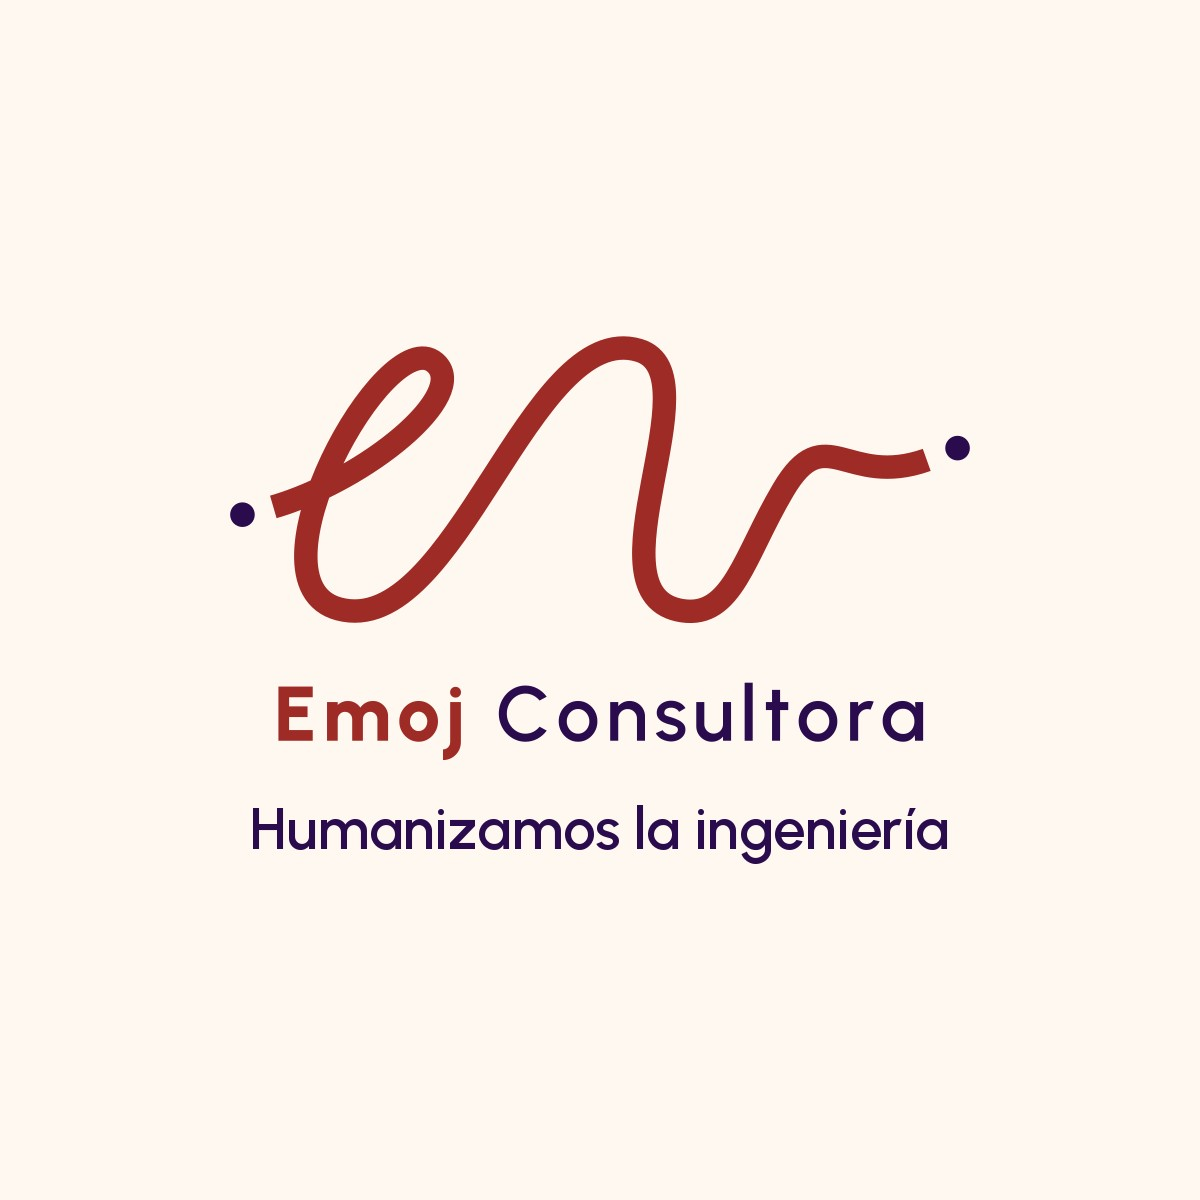
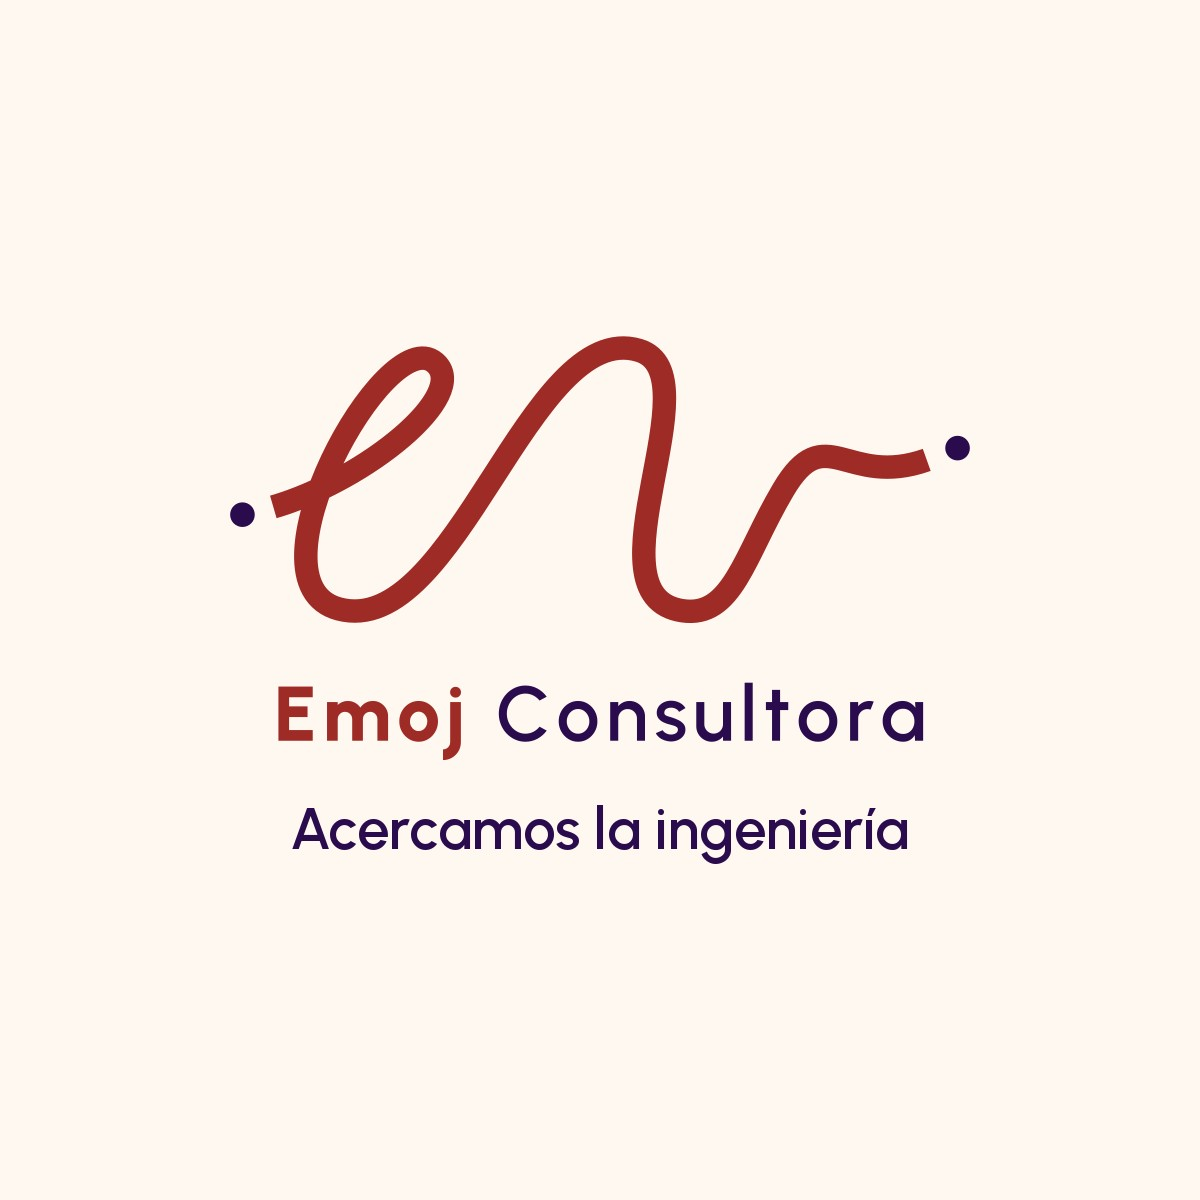
chore(brand): tagline is "Acercamos la ingeniería"

Changed region(s): [[0.185, 0.6783, 0.8017, 0.74]]

diff --git a/src/admin/Shell.tsx b/src/admin/Shell.tsx
@@ -34,6 +34,7 @@ import {
 } from "lucide-react";
 import { useEffect, useRef, useState, type ReactNode } from "react";
 import { activeNavItem, type AdminNavItem } from "../lib/admin/nav";
+import { TAGLINE as SITE_TAGLINE } from "../lib/site";
 import {
   effectiveTheme,
   storedTheme,
@@ -128,8 +129,8 @@ function NavList({
   );
 }
 
-/** Tagline under the lockup (the one in the official tagline files). */
-const TAGLINE = "acercamos la ingeniería";
+/** Tagline under the lockup, lowercase as in the official tagline files. */
+const TAGLINE = SITE_TAGLINE.toLowerCase();
 
 function Brand({ collapsed }: { collapsed: boolean }) {
   return (

diff --git a/src/lib/site.ts b/src/lib/site.ts
@@ -9,7 +9,7 @@ export const SITE_NAME = "EMOJ Consultora";
 export const LEGAL_NAME = "EMOJ Consultora SpA";
 /** Tax ID (RUT) of EMOJ Consultora SpA. */
 export const RUT = "76.956.190-0";
-export const TAGLINE = "Humanizamos la ingeniería";
+export const TAGLINE = "Acercamos la ingeniería";
 
 export const CONTACT = {
   email: "coordinacion@emoj.cl",

diff --git a/scripts/build-og-image.py b/scripts/build-og-image.py
@@ -54,7 +54,7 @@ with tempfile.TemporaryDirectory() as tmp:
     lockup = lockup.crop(lockup.getbbox())
 
 font = ImageFont.truetype(str(FONTS / "urbanist-latin-600-normal.woff"), 58)
-tagline = "Humanizamos la ingeniería"
+tagline = "Acercamos la ingeniería"
 draw_probe = ImageDraw.Draw(Image.new("RGB", (1, 1)))
 left, top, right, bottom = draw_probe.textbbox((0, 0), tagline, font=font)
 text_w, text_h = right - left, bottom - top

diff --git a/design/brand/oficial/README.md b/design/brand/oficial/README.md
@@ -7,14 +7,14 @@ source of truth: the site's marks are built from them, never redrawn.
 
 ## Versions
 
-| Files                          | What                                                            | Use                                                                                                                                                                                   |
-| ------------------------------ | --------------------------------------------------------------- | ------------------------------------------------------------------------------------------------------------------------------------------------------------------------------------- |
-| `isotipo-recorte*.svg`         | Isotype, fine stroke (10.19 on an 852 grid)                     | The main mark in the brand book. Large sizes.                                                                                                                                         |
-| `isotipo-bold.svg`             | Isotype, heavy stroke (20)                                      | Small sizes, where the fine stroke would thin out (header, favicon).                                                                                                                  |
-| `horizontal-*.svg`             | Isotype + "Emoj Consultora" side by side                        | Wide, short spaces.                                                                                                                                                                   |
-| `vertical-*.svg`               | Isotype over "Emoj Consultora"                                  | Main lockup. The site footer uses `vertical-recorte` (`src/components/LogoLockup.astro`).                                                                                             |
-| `vertical-tagline-*.svg`       | Vertical lockup with tagline                                    | **Outdated tagline**: these files say "acercamos la ingeniería"; the brand book and the site use "Humanizamos la ingeniería". Do not publish them until the designer re-exports them. |
-| `patron-1.svg`, `patron-2.svg` | The isotype repeated as a pattern (same tile, different offset) | Backgrounds. The web tile is `public/brand/patron.svg`.                                                                                                                               |
+| Files                          | What                                                            | Use                                                                                                             |
+| ------------------------------ | --------------------------------------------------------------- | --------------------------------------------------------------------------------------------------------------- |
+| `isotipo-recorte*.svg`         | Isotype, fine stroke (10.19 on an 852 grid)                     | The main mark in the brand book. Large sizes.                                                                   |
+| `isotipo-bold.svg`             | Isotype, heavy stroke (20)                                      | Small sizes, where the fine stroke would thin out (header, favicon).                                            |
+| `horizontal-*.svg`             | Isotype + "Emoj Consultora" side by side                        | Wide, short spaces.                                                                                             |
+| `vertical-*.svg`               | Isotype over "Emoj Consultora"                                  | Main lockup. The site footer uses `vertical-recorte` (`src/components/LogoLockup.astro`).                       |
+| `vertical-tagline-*.svg`       | Vertical lockup with tagline                                    | The official tagline, "acercamos la ingeniería". The site uses the same words (`TAGLINE` in `src/lib/site.ts`). |
+| `patron-1.svg`, `patron-2.svg` | The isotype repeated as a pattern (same tile, different offset) | Backgrounds. The web tile is `public/brand/patron.svg`.                                                         |
 
 Suffixes: none = color (Auburn stroke `#9E2B25`, Russian Violet dots and
 "Consultora" `#2A0C4E`, "Emoj" in Auburn); `positivo` = one ink, black;

diff --git a/CLAUDE.md b/CLAUDE.md
@@ -16,8 +16,8 @@ Astro site for emoj.cl (static, deployed on Vercel) plus the admin panel (React 
 - Data font: Space Grotesk 400/500/600 (`font-data`), only for figures and data labels (hero facts, project sheets, numbers); never for headings, body copy or buttons.
 - Signature shape: `rounded-l-signature` (50px on the left corners only).
 - Icons: `@lucide/astro` in the site; `lucide-react` only inside the admin island.
-- Tagline: "Humanizamos la ingeniería".
-- Logos: the official files are in `design/brand/oficial/` (see its README). Build marks from their geometry, never redraw them; fine stroke (`recorte`) for large sizes, `bold` for small ones. The `vertical-tagline-*` files carry an outdated tagline: do not use them. Brand pattern tile: `public/brand/patron.svg` (`.brand-pattern`).
+- Tagline: "Acercamos la ingeniería" (the one in the official `vertical-tagline-*` files).
+- Logos: the official files are in `design/brand/oficial/` (see its README). Build marks from their geometry, never redraw them; fine stroke (`recorte`) for large sizes, `bold` for small ones. The `vertical-tagline-*` files carry the tagline and may be used. Brand pattern tile: `public/brand/patron.svg` (`.brand-pattern`).
 
 ## Code rules
 

diff --git a/README.md b/README.md
@@ -1,6 +1,6 @@
 # emoj_frontend
 
-Public website of **EMOJ Consultora** ([emoj.cl](https://emoj.cl)), a Chilean civil engineering firm. Tagline: _Humanizamos la ingeniería_.
+Public website of **EMOJ Consultora** ([emoj.cl](https://emoj.cl)), a Chilean civil engineering firm. Tagline: _Acercamos la ingeniería_.
 
 The site is built with Astro and deployed on Vercel: most pages are static, and the pages that show projects and news are rendered on demand and cached, so a change made in the admin panel is on the site in seconds. Content comes from a separate Go API, [emoj_backend](https://github.com/dmmtdeveloper/emoj_backend).
 
